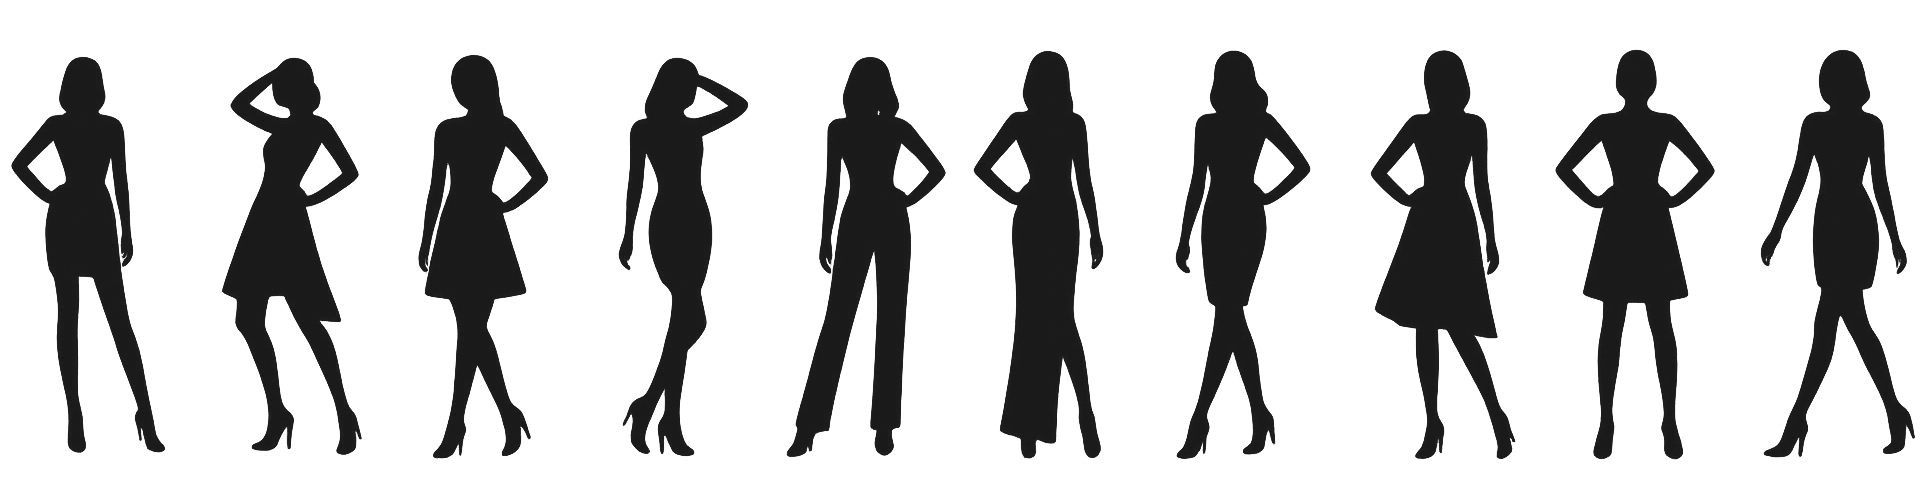
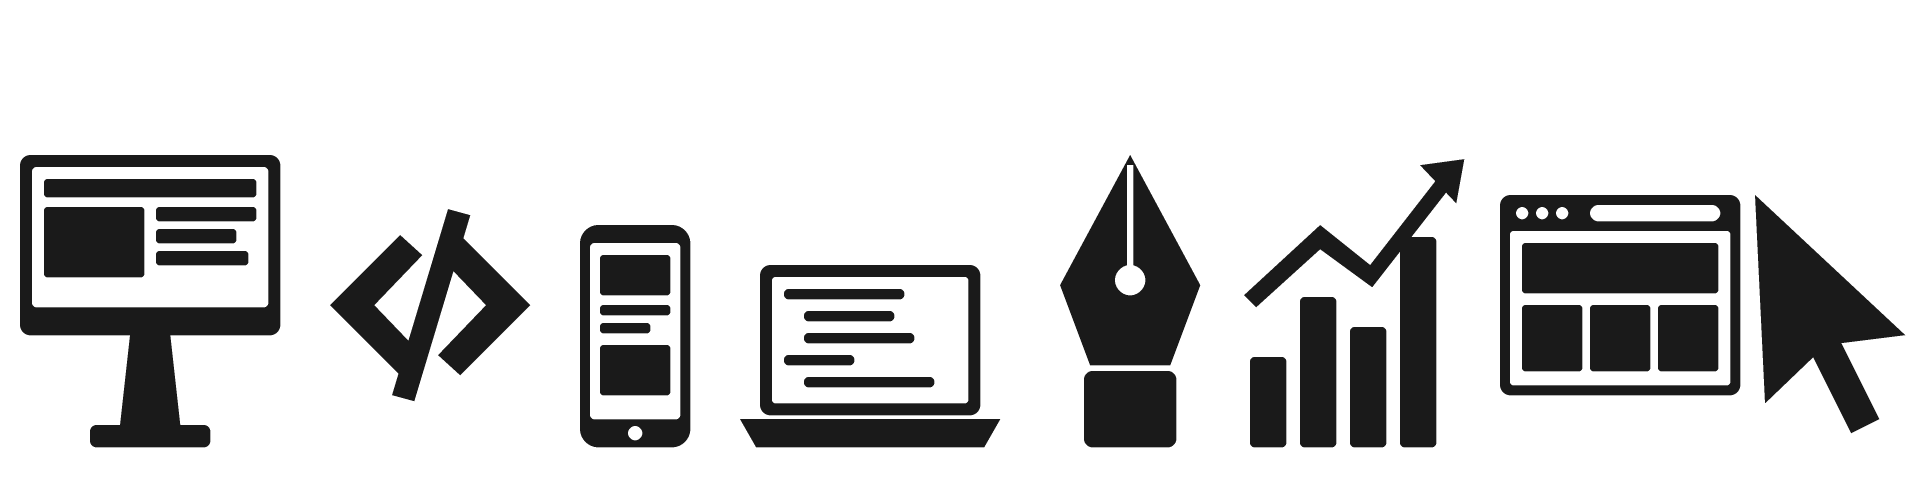
Front: thematic web studio photos instead of Poseify fashion demo
- resources/stock: 24 Unsplash photos (Unsplash License) cropped to the
  original sizes (hero 1920x1080, about 600x800, services 500x500,
  team 450x600, testimonials 100x100) plus six 1200x900 portfolio images,
  so every project has its own picture
- seed 04 imports from resources/stock; seeds 05/07 use about.jpg and
  portfolio-1..6.jpg
- footer-bg.png redrawn: web studio silhouettes (monitor, code, phone,
  laptop, pen tool, chart, browser, cursor) in the original style
- page header fallback (carousel-1.jpg) replaced; unused Poseify photos
  removed from public/assets/front/img

diff --git a/database/seeds/07_demo_collections.php b/database/seeds/07_demo_collections.php
@@ -7,7 +7,7 @@ use Core\Database\DB;
 use Core\Database\Seeder;
 
 // ვებ სტუდიის კოლექციები: სერვისები, გუნდი, შეფასებები, პორტფოლიო (კატეგორიებით).
-// სურათები — დემო (04_demo_media), ჩაანაცვლეთ რეალურით. გაეშვება მხოლოდ მაშინ, როცა კოლექციებში ჯერ არაფერია.
+// სურათები — 04_demo_media (resources/stock), ჩაანაცვლეთ რეალურით. გაეშვება მხოლოდ მაშინ, როცა კოლექციებში ჯერ არაფერია.
 return new class extends Seeder {
     private Collection $items;
     private Category $categories;
@@ -86,12 +86,12 @@ return new class extends Seeder {
         $brand = $this->category('portfolio', ['ბრენდინგი', 'Branding'], ['brendingi', 'branding']);
         $shop = $this->category('portfolio', ['ონლაინ მაღაზია', 'E-commerce'], ['onlain-maghazia', 'e-commerce']);
         $projects = [
-            [$web, 'carousel-1.jpg', ['მოდის სახლის საიტი', 'Fashion House Website'], ['modis-sakhlis-saiti', 'fashion-house-website'], 2026, ['მოდის სახლი', 'Fashion House']],
-            [$shop, 'carousel-2.jpg', ['ტანსაცმლის ონლაინ მაღაზია', 'Apparel Online Store'], ['tansatsmlis-maghazia', 'apparel-store'], 2025, ['Style Market', 'Style Market']],
-            [$brand, 'about.png', ['სტუდიის ბრენდინგი', 'Studio Branding'], ['studiis-brendingi', 'studio-branding'], 2025, ['Photo Lab', 'Photo Lab']],
-            [$web, 'service-1.jpg', ['ღონისძიებების სააგენტო', 'Event Agency'], ['ghonisdziebebis-saagento', 'event-agency'], 2024, ['Event Pro', 'Event Pro']],
-            [$brand, 'service-3.jpg', ['კოსმეტიკის ბრენდი', 'Cosmetics Brand'], ['kosmetikis-brendi', 'cosmetics-brand'], 2024, ['Glow', 'Glow']],
-            [$shop, 'service-4.jpg', ['აქსესუარების მაღაზია', 'Accessories Store'], ['aksesuarebis-maghazia', 'accessories-store'], 2023, ['Accent', 'Accent']],
+            [$web, 'portfolio-1.jpg', ['მოდის სახლის საიტი', 'Fashion House Website'], ['modis-sakhlis-saiti', 'fashion-house-website'], 2026, ['მოდის სახლი', 'Fashion House']],
+            [$shop, 'portfolio-2.jpg', ['ტანსაცმლის ონლაინ მაღაზია', 'Apparel Online Store'], ['tansatsmlis-maghazia', 'apparel-store'], 2025, ['Style Market', 'Style Market']],
+            [$brand, 'portfolio-3.jpg', ['სტუდიის ბრენდინგი', 'Studio Branding'], ['studiis-brendingi', 'studio-branding'], 2025, ['Photo Lab', 'Photo Lab']],
+            [$web, 'portfolio-4.jpg', ['ღონისძიებების სააგენტო', 'Event Agency'], ['ghonisdziebebis-saagento', 'event-agency'], 2024, ['Event Pro', 'Event Pro']],
+            [$brand, 'portfolio-5.jpg', ['კოსმეტიკის ბრენდი', 'Cosmetics Brand'], ['kosmetikis-brendi', 'cosmetics-brand'], 2024, ['Glow', 'Glow']],
+            [$shop, 'portfolio-6.jpg', ['აქსესუარების მაღაზია', 'Accessories Store'], ['aksesuarebis-maghazia', 'accessories-store'], 2023, ['Accent', 'Accent']],
         ];
         foreach ($projects as [$category, $image, $title, $slug, $year, $client]) {
             $this->item('portfolio', $category, $image, $title, $slug,

diff --git a/database/seeds/05_demo_pages.php b/database/seeds/05_demo_pages.php
@@ -6,7 +6,7 @@ use App\Models\PageBlock;
 use Core\Database\DB;
 use Core\Database\Seeder;
 
-// ვებ სტუდიის საწყისი გვერდები ბლოკებით (ka + en). სურათები — Poseify-ის დემო (04_demo_media), ჩაანაცვლეთ რეალურით.
+// ვებ სტუდიის საწყისი გვერდები ბლოკებით (ka + en). სურათები — 04_demo_media (resources/stock), ჩაანაცვლეთ რეალურით.
 // სერვისები, გუნდი, შეფასებები, პორტფოლიო — კოლექციებიდან (07_demo_collections).
 // გაეშვება მხოლოდ მაშინ, როცა გვერდები ჯერ არ არის. თავიდან: php bin/console content:reset --force
 return new class extends Seeder {
@@ -185,7 +185,7 @@ return new class extends Seeder {
             [[], ['text' => ['მართვის პანელი — კონტენტს თავად ცვლით', 'An admin panel — you edit the content yourself']]],
         ]);
         $this->block($pageId, 'about', [
-            'items' => $items, 'image' => $this->img('about.png'), 'background' => $background,
+            'items' => $items, 'image' => $this->img('about.jpg'), 'background' => $background,
             'button1_link' => $this->link($portfolio), 'button2_link' => $this->link($contact),
         ], [
             'subtitle'      => ['ჩვენ შესახებ', 'About Us'],

diff --git a/database/seeds/04_demo_media.php b/database/seeds/04_demo_media.php
@@ -5,7 +5,7 @@ use App\Models\Media;
 use Core\Database\DB;
 use Core\Database\Seeder;
 
-// Poseify-ის დემო სურათები მედია ბიბლიოთეკაში (საქაღალდე "demo") — ფაზა 4-ის ბლოკებისთვის.
+// ვებ სტუდიის საწყისი სურათები მედია ბიბლიოთეკაში (საქაღალდე "demo"): resources/stock — Unsplash (Unsplash License).
 // განმეორებით გაშვებისას უკვე იმპორტირებულს გამოტოვებს. საბოლოო კონტენტის შემდეგ შეიძლება წაიშალოს.
 return new class extends Seeder {
     private const FOLDER = 'demo';
@@ -15,7 +15,7 @@ return new class extends Seeder {
         $media = app(Media::class);
         $existing = $db->column('SELECT original_name FROM media WHERE folder = ?', [self::FOLDER]);
 
-        foreach (glob(base_path('resources/templates/poseify/img/*.{jpg,png}'), GLOB_BRACE) ?: [] as $file) {
+        foreach (glob(base_path('resources/stock/*.{jpg,png}'), GLOB_BRACE) ?: [] as $file) {
             if (!in_array(basename($file), $existing, true)) {
                 $media->import($file, self::FOLDER);
             }
